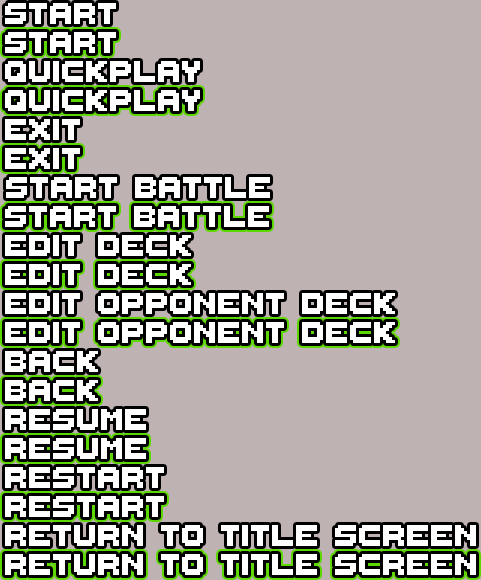
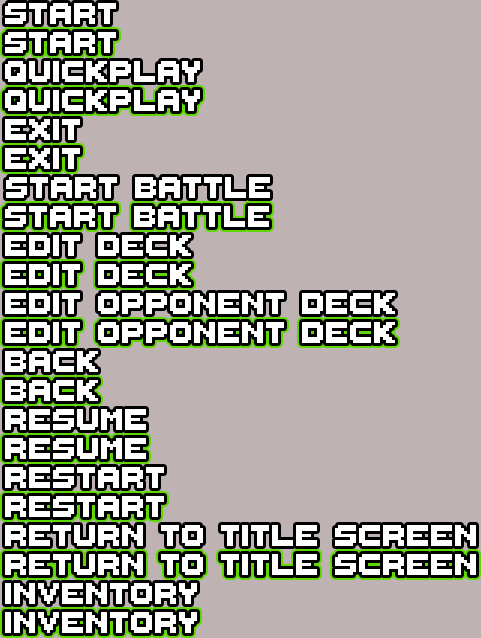
feat: update inventory selector

diff --git a/src/rpg/RPGPause.py b/src/rpg/RPGPause.py
@@ -9,8 +9,7 @@ class RPGPauseHandler:
     def __init__(self, from_state):
         self.pause_selectors = [
             Selector("edit_deck", y=290, scale=1.0, center=True),
-            # TODO: wait for inventory
-            Selector("quickplay", y=350, scale=1.0, center=True),
+            Selector("inventory", y=350, scale=1.0, center=True),
             Selector("return_to_title", y=410, scale=1.0, center=True)
         ]
         self.pause = False
@@ -50,7 +49,7 @@ class RPGPauseHandler:
                             'from_state': self.from_state
                         }
                         g_state_manager.Change(BattleState.DECK_BUILDING, params)
-                    elif self.pause_selectors[self.selected_pause_index].name == "quickplay":
+                    elif self.pause_selectors[self.selected_pause_index].name == "inventory":
                         self.pause = False
                         self.selected_pause_index = 0
                         # TODO: wait for inventory

diff --git a/src/resources.py b/src/resources.py
@@ -248,6 +248,8 @@ gSelector_image_list = {
     "restart_selector_default": sprite_collection["restart_selector_default"].image,
     "restart_selector_clicked": sprite_collection["restart_selector_clicked"].image,
     "return_to_title_selector_default": sprite_collection["return_to_title_selector_default"].image,
-    "return_to_title_selector_clicked": sprite_collection["return_to_title_selector_clicked"].image
+    "return_to_title_selector_clicked": sprite_collection["return_to_title_selector_clicked"].image,
+    "inventory_selector_default": sprite_collection["inventory_selector_default"].image,
+    "inventory_selector_clicked": sprite_collection["inventory_selector_clicked"].image,
 }
 
